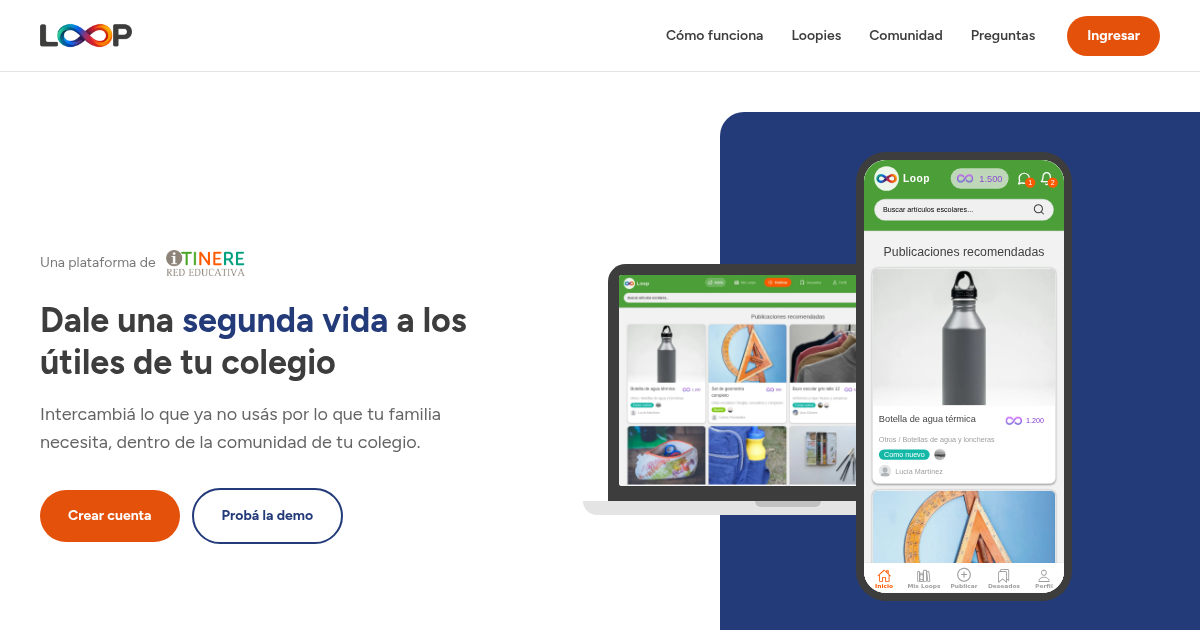
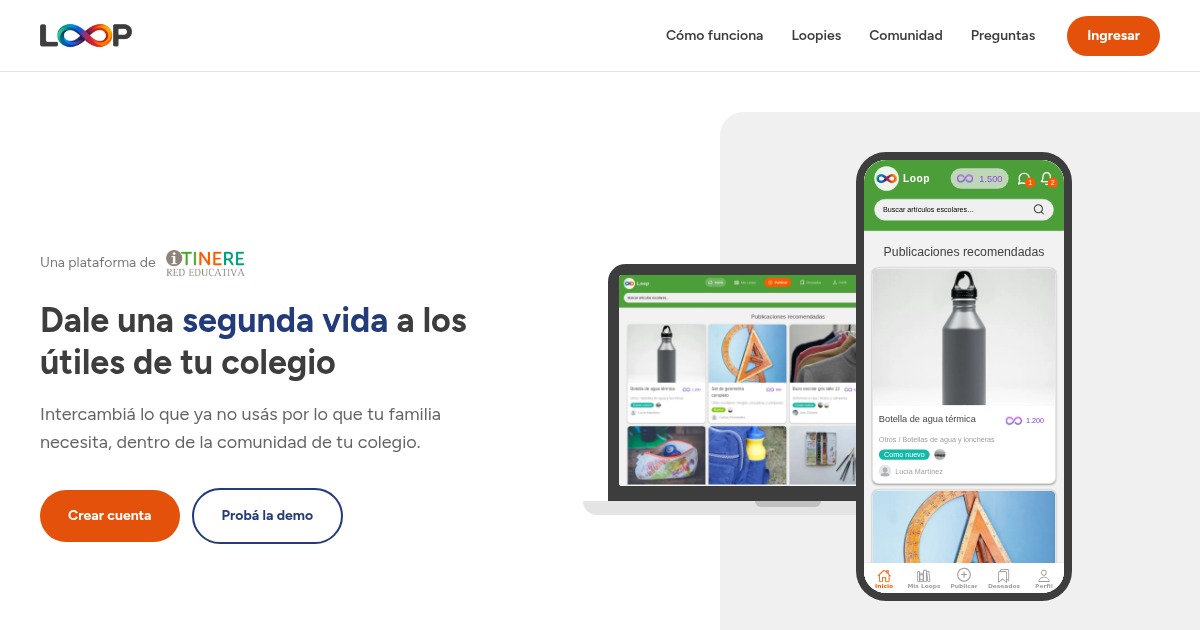
fix(client): use a neutral hero block so it works with any community theme

Changed region(s): [[0.5858, 0.1508, 1.0, 1.0]]

diff --git a/client/components/landing/LandingHero.tsx b/client/components/landing/LandingHero.tsx
@@ -1,4 +1,5 @@
 import { TapIcon } from "@/components/Icons";
+import { useThemeColors } from "@/hooks/useThemeColors";
 import { useState } from "react";
 import type { ImageSourcePropType } from "react-native";
 import { Image, View } from "react-native";
@@ -19,7 +20,9 @@ const PHONE_ALT = "Pantalla de inicio de Loop en el celular";
 /**
  * Brochure-style hero: copy on the left, and on the right a laptop with Loop's desktop home plus
  * a phone running the REAL app (the `/demo` route in an iframe, see `useLiveDemo`). The devices
- * sit across the edge of a navy color block that bleeds to the right edge of the viewport.
+ * sit across the edge of a neutral color block that bleeds to the right edge of the viewport. It
+ * stays neutral on purpose: the app inside the devices wears its community's theme, whatever
+ * that is, and a brand-colored block fights with it.
  *
  * Below `lg` the composition gives way to a single static phone capture: a live phone inside a
  * phone makes no sense, and it keeps the small-screen hero light.
@@ -28,7 +31,7 @@ export default function LandingHero({ phoneSource, desktopSource }: Props) {
   return (
     <View className="relative w-full overflow-hidden">
       {/* Color block: starts a little right of center so the laptop straddles its edge. */}
-      <View className="absolute bottom-10 right-0 top-10 left-[calc(50%+7.5rem)] rounded-l-3xl bg-secondary max-lg:hidden" />
+      <View className="absolute bottom-10 right-0 top-10 left-[calc(50%+7.5rem)] rounded-l-3xl bg-background max-lg:hidden" />
 
       <View
         className={`${LANDING_CONTAINER} relative flex-col gap-10 pb-12 pt-10 lg:flex-row lg:items-center lg:justify-between lg:gap-10 lg:py-20`}
@@ -72,8 +75,8 @@ export default function LandingHero({ phoneSource, desktopSource }: Props) {
           </View>
         </View>
 
-        {/* Small screens: one static phone on a navy panel. */}
-        <View className="w-full items-center rounded-3xl bg-secondary px-6 py-10 lg:hidden">
+        {/* Small screens: one static phone on the same neutral panel. */}
+        <View className="w-full items-center rounded-3xl bg-background px-6 py-10 lg:hidden">
           <PhoneShell screenClassName="w-[220px]">
             <ScreenImage source={phoneSource} alt={PHONE_ALT} />
           </PhoneShell>
@@ -89,6 +92,7 @@ export default function LandingHero({ phoneSource, desktopSource }: Props) {
 }
 
 function HeroDevices({ phoneSource, desktopSource }: Props) {
+  const colors = useThemeColors();
   const { mounted, state, touched, frameRef, onFrameLoad } = useLiveDemo();
   const [screenWidth, setScreenWidth] = useState(0);
   const live = state === "live";
@@ -144,8 +148,8 @@ function HeroDevices({ phoneSource, desktopSource }: Props) {
             live && !touched ? "opacity-100" : "opacity-0"
           }`}
         >
-          <TapIcon color="white" size={18} />
-          <Text className="text-sm font-semibold text-white">Probala acá</Text>
+          <TapIcon color={colors.MAIN_TEXT} size={18} />
+          <Text className="text-sm font-semibold text-main-text">Probala acá</Text>
         </View>
       </Reveal>
     </View>

diff --git a/odd/tasks/marketing-landing.md b/odd/tasks/marketing-landing.md
@@ -156,6 +156,11 @@ Tasks (route for all: delegated, writer trigger, 2+ non-trivial files):
   "Perfil" are fully visible at hero and step sizes; geometry photo replaces the notebooks; share
   image recaptured.
 
+### Round 3 follow-up (user feedback, 2026-11-07)
+- Hero block is now neutral (`bg-background`) at every width instead of navy. The app inside the devices wears its community's theme, and the navy block fought with the demo's green header. A neutral block also survives other communities' themes and later app UI changes.
+- Found while comparing: the green is not only the demo. The public API returns `secondary: #4C9F38` for `red-itinere` in production, so the institutional palette from 68f2517 (navy, default in `config.ts`) does not reach Red Itínere's real users. Whether to change that theme is the user's decision.
+- Checks: tsc clean; jest `marketing-landing brand-palette main-view` 609 passed; eslint clean on the hero; export OK; visual readback at 1440 DPR 2 and 390. Share image recaptured.
+
 ## Acceptance criteria
 - Logged-out web visit to `/` shows the new landing; "Ingresar" goes to `/ingresar` (old Landing).
 - Native first screen is unchanged.
